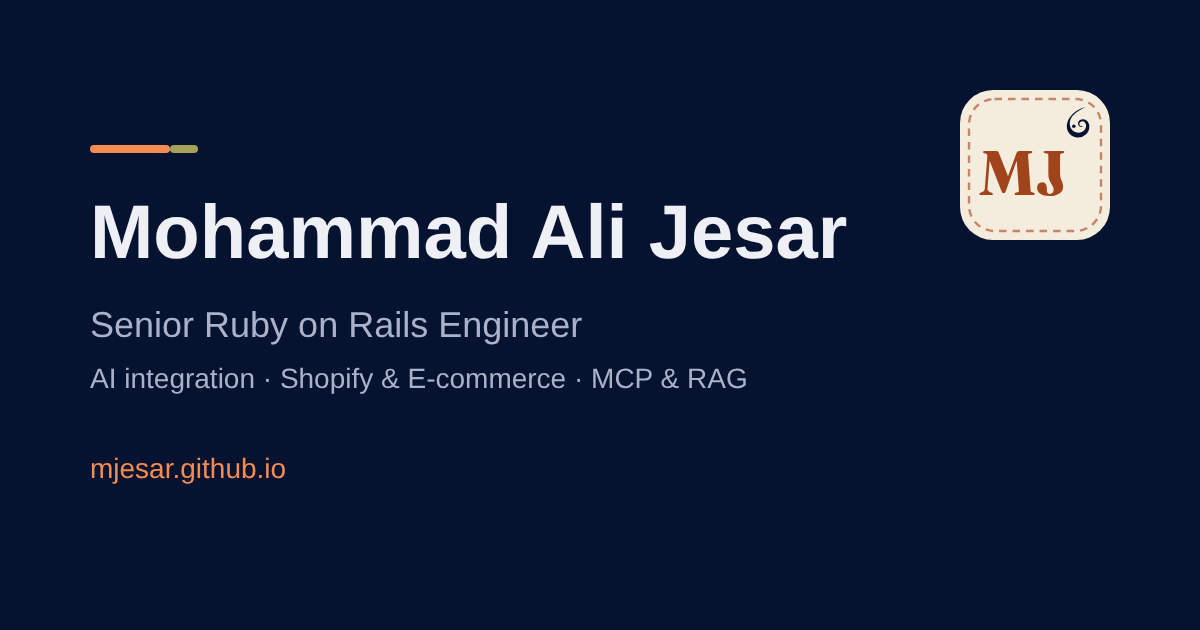
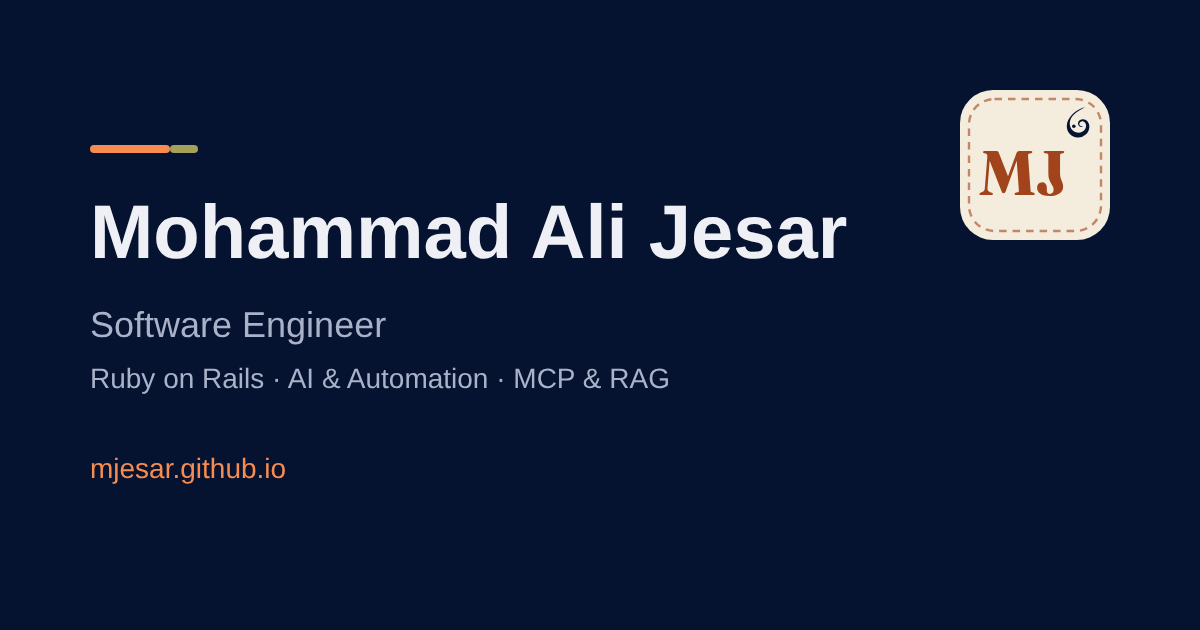
reposition the homepage as senior software engineer for ai automation

Changed region(s): [[0.0617, 0.573, 0.6167, 0.6333], [0.0925, 0.4825, 0.4933, 0.5429]]

diff --git a/index.html b/index.html
@@ -1,6 +1,6 @@
 ---
-title: "Mohammad Ali Jesar · Senior Ruby on Rails & AI Engineer"
-description: "Senior Ruby on Rails engineer specializing in AI integration: helping startups launch MVPs, AI agents, MCP, RAG, Shopify and e-commerce. Remote, from Lahore."
+title: "Mohammad Ali Jesar · Rails, AI & Automation Engineer"
+description: "Software engineer for Ruby on Rails, AI and automation: helping startups launch MVPs and SaaS apps, AI agents, MCP, RAG and e-commerce. Remote, from Lahore."
 ---
 <script type="application/ld+json">
 {
@@ -24,9 +24,9 @@ description: "Senior Ruby on Rails engineer specializing in AI integration: help
       "url": "https://mjesar.github.io/",
       "image": "https://mjesar.github.io/assets/img/mohammad-ali-jesar.webp",
       "email": "mailto:mohammadalijaisar@gmail.com",
-      "jobTitle": "Senior Ruby on Rails Engineer (AI integration)",
+      "jobTitle": "Software Engineer (Ruby on Rails, AI and automation)",
       "disambiguatingDescription": "Ruby on Rails engineer based in Lahore, Pakistan, who builds Shopify and BigCommerce apps and adds AI (MCP servers, RAG, agents) to Rails applications. Holds a B.S. in Information Technology from Sindh Agricultural University. Previously worked at MGLogics on Shopify and BigCommerce apps (2021 to 2026) and as a backend engineer at SimpleDeploy (2019 to 2021). Online handle: mjesar.",
-      "description": "Senior Ruby on Rails engineer specializing in AI integration, with 7+ years of experience: helping startups launch MVPs, building new Rails apps and working on existing ones, AI agents, MCP servers and RAG, and Shopify and e-commerce apps and integrations.",
+      "description": "Software engineer specializing in Ruby on Rails, AI and automation, with 7+ years of experience: helping startups launch MVPs and SaaS applications, building new Rails apps and working on existing ones, AI agents, MCP servers and RAG, workflow automation, and e-commerce apps and integrations. Works results-first, the idea behind Results as a Service.",
       "address": { "@type": "PostalAddress", "addressLocality": "Lahore", "addressCountry": "PK" },
       "alumniOf": { "@type": "CollegeOrUniversity", "name": "Sindh Agricultural University" },
       "hasCredential": {
@@ -37,7 +37,7 @@ description: "Senior Ruby on Rails engineer specializing in AI integration: help
       },
       "hasOccupation": {
         "@type": "Occupation",
-        "name": "Senior Ruby on Rails Engineer (AI integration)",
+        "name": "Software Engineer (Ruby on Rails, AI and automation)",
         "skills": "Ruby on Rails, Hotwire, React, TypeScript, PostgreSQL, Sidekiq, RSpec, Shopify apps, Shopify Functions, Checkout UI Extensions, BigCommerce apps, Amazon SP-API, LLM integrations, MCP servers, RAG, pgvector, AI agents, evals"
       },
       "knowsAbout": [
@@ -49,7 +49,7 @@ description: "Senior Ruby on Rails engineer specializing in AI integration: help
         "Shopify Theme App Extensions", "Shopify Scripts to Functions migration", "Shopify Plus", "Shopify B2B", "Liquid", "Shopify App Store publishing", "BigCommerce", "Amazon SP-API",
         "Large language models", "Claude", "OpenAI", "Google Gemini", "RubyLLM", "Model Context Protocol",
         "MCP servers", "MCP clients", "Retrieval-Augmented Generation", "pgvector", "AI agents", "Agentic AI", "Workflow automation", "Business process automation", "n8n", "Tool calling",
-        "LLM evals", "Generative Engine Optimization", "Answer Engine Optimization", "Brand visibility in AI search", "AI visibility monitoring", "MVP development for startups", "Agile software development", "JSON-LD", "Schema.org structured data"
+        "LLM evals", "Generative Engine Optimization", "Answer Engine Optimization", "Brand visibility in AI search", "AI visibility monitoring", "MVP development for startups", "SaaS development", "Results as a Service", "Agile software development", "JSON-LD", "Schema.org structured data"
       ],
       "sameAs": [
         "https://github.com/mjesar",
@@ -82,13 +82,13 @@ description: "Senior Ruby on Rails engineer specializing in AI integration: help
   <div class="wrap">
     <div class="bar" aria-hidden="true"></div>
     <div class="hero-id">
-      <img class="avatar" src="/assets/img/mohammad-ali-jesar.webp" width="400" height="400" alt="Portrait of Mohammad Ali Jesar, senior Ruby on Rails engineer, in glasses and a pink shirt">
+      <img class="avatar" src="/assets/img/mohammad-ali-jesar.webp" width="400" height="400" alt="Portrait of Mohammad Ali Jesar, software engineer, in glasses and a pink shirt">
       <h1>Mohammad Ali Jesar</h1>
     </div>
     <p class="tagline">From ideas to apps. From manual work to automation.</p>
-    <p class="role">Senior Ruby on Rails Engineer specializing in AI integration</p>
-    <p class="lede">I help startups and businesses turn ideas into working applications, automate repetitive workflows with AI, and build e-commerce software.</p>
-    <p class="meta">@mjesar · Lahore, Pakistan · Available now for remote full-time roles, contracts and projects · U.S. and European hours</p>
+    <p class="role">Senior Software Engineer specializing in AI automation</p>
+    <p class="lede">I help startups and businesses turn ideas into working applications, automate repetitive workflows with AI, and build software that solves real business problems.</p>
+    <p class="meta">Lahore, Pakistan · Available for remote full-time roles, contracts and projects · U.S. and European time zones</p>
     <ul class="links">
       <li><a class="btn primary" href="/resume/">Hiring? View my resume</a></li>
       <li><a class="btn primary" href="/services/">Have a project? See services</a></li>
@@ -105,9 +105,11 @@ description: "Senior Ruby on Rails engineer specializing in AI integration: help
 
 <section id="about">
   <h2>About</h2>
-  <p>I am a senior Ruby on Rails engineer with 7+ years of production work for clients in the US and Germany, 4+ of them on Shopify and e-commerce. I contributed to five apps on the Shopify App Store (three also on BigCommerce) and built catalog, order and marketplace integrations.</p>
-  <p>I am also an AI engineer who builds agentic AI in Rails. I build MCP servers, RAG on PostgreSQL with pgvector, and agents that use real application data through narrow tools and ask before any write, inside the Rails stack a team already runs. I also automate business processes with AI workflows, in n8n or in code.</p>
-  <p>I am based in Lahore, Pakistan, and hold a B.S. in Information Technology from Sindh Agricultural University. I use the handle <strong>mjesar</strong> on GitHub and LinkedIn.</p>
+  <p>I am a software engineer with 7+ years of experience building and maintaining production applications for international clients. My core expertise is Ruby on Rails, full-stack development, and integrating AI into practical software.</p>
+  <p>I help businesses turn ideas into working products and SaaS applications, improve existing software, and automate repetitive business processes. My AI work includes agents, MCP servers, RAG and LLM integrations that connect models to application data and business tools, with appropriate permissions and approval for sensitive actions.</p>
+  <p>My approach is results-first: agree on the outcome, define the scope, and build toward it in small, reviewable steps. This is the idea behind Results as a Service: focusing on what the software needs to accomplish, not just the features delivered.</p>
+  <p>I also bring experience in e-commerce software, including contributions to published apps used by merchants, catalog and order integrations, and marketplace connections. Beyond e-commerce, I have built management MVPs for clients in real estate and furniture.</p>
+  <p>I am based in Lahore, Pakistan, and hold a BS-IT (Hons) degree, equivalent to 16 years of education.</p>
 </section>
 
 <section id="projects">

diff --git a/_includes/at-a-glance.html b/_includes/at-a-glance.html
@@ -2,8 +2,8 @@
 <section class="glance" aria-labelledby="glance-title">
   <h2 id="glance-title">At a glance</h2>
   <dl>
-    <div><dt>Role</dt><dd>Senior Ruby on Rails Engineer, AI integration</dd></div>
-    <div><dt>Experience</dt><dd>7+ years, 4+ of them in Shopify and e-commerce</dd></div>
+    <div><dt>Role</dt><dd>Software Engineer, AI and automation</dd></div>
+    <div><dt>Experience</dt><dd>7+ years in production software</dd></div>
     <div><dt>Core stack</dt><dd>Rails, PostgreSQL, Sidekiq, React, Hotwire, RubyLLM, MCP</dd></div>
     <div><dt>Location</dt><dd>Lahore, Pakistan (UTC+5), working U.S. and European hours</dd></div>
     <div><dt>Availability</dt><dd>Now, for remote full-time, contract or project work</dd></div>

diff --git a/_includes/footer.html b/_includes/footer.html
@@ -1,6 +1,6 @@
 <footer class="site-footer">
   <div class="wrap">
-    <p>Mohammad Ali Jesar (mjesar) · Senior Ruby on Rails Engineer, AI integration · Lahore, Pakistan</p>
+    <p>Mohammad Ali Jesar (mjesar) · Software Engineer, Ruby on Rails, AI and automation · Lahore, Pakistan</p>
     <ul class="links">
       <li><a href="mailto:mohammadalijaisar@gmail.com">Email</a></li>
       <li><a href="https://github.com/mjesar" rel="me noopener" target="_blank">GitHub</a></li>

diff --git a/services/index.md b/services/index.md
@@ -1,14 +1,14 @@
 ---
 title: Hire a Ruby on Rails & AI Engineer
-description: "Hire a senior Ruby on Rails engineer for apps and MVPs, AI integration (MCP, RAG, agents), Shopify and e-commerce. Remote full-time, contract or project work."
+description: "Hire a Ruby on Rails and AI engineer for apps and MVPs, AI integration (MCP, RAG, agents), Shopify and e-commerce. Remote full-time, contract or project work."
 image: /assets/img/og/services.png
 ---
 <div class="hero small">
   <div class="wrap">
     <div class="bar" aria-hidden="true"></div>
     <h1>Work with me</h1>
-    <p class="role">Senior Ruby on Rails Engineer specializing in AI integration</p>
-    <p class="lede">I help startups and businesses turn ideas into working applications, automate repetitive workflows with AI, and build e-commerce software.</p>
+    <p class="role">Senior Software Engineer specializing in AI automation</p>
+    <p class="lede">I help startups and businesses turn ideas into working applications, automate repetitive workflows with AI, and build software that solves real business problems.</p>
     <p class="meta">Open to remote full-time roles, contracts and freelance projects · Available now · Usually replies within a few hours · Flexible hours for U.S. and European time zones</p>
     <ul class="links">
       <li><a class="btn primary" href="mailto:mohammadalijaisar@gmail.com">Have a project? Email me</a></li>

diff --git a/now/index.md b/now/index.md
@@ -16,7 +16,7 @@ updated: 2026-10-11
 
 ## Looking for my next role
 
-After four and a half years at MGLogics, I am looking for a **remote full-time role** as a senior Ruby on Rails engineer specializing in AI integration, ideally where Shopify, e-commerce or AI features meet. I am available to start now, and also taking **freelance projects**. See [Services](/services/) or [email me](mailto:mohammadalijaisar@gmail.com).
+After four and a half years at MGLogics, I am looking for a **remote full-time role** as a software engineer for Ruby on Rails, AI and automation, ideally where Shopify, e-commerce or AI features meet. I am available to start now, and also taking **freelance projects**. See [Services](/services/) or [email me](mailto:mohammadalijaisar@gmail.com).
 
 ## Building
 

diff --git a/README.md b/README.md
@@ -1,6 +1,6 @@
 # mjesar.github.io
 
-Personal site of Mohammad Ali Jesar (mjesar), senior Ruby on Rails engineer specializing in AI integration. Live at https://mjesar.github.io
+Personal site of Mohammad Ali Jesar (mjesar), software engineer for Ruby on Rails, AI and automation. Live at https://mjesar.github.io
 
 A single static page served by GitHub Pages. It carries schema.org `Person` structured data that links my profiles (GitHub, LinkedIn, Fiverr) as one person, so search engines and AI assistants can tell me apart from others with the same name.
 
